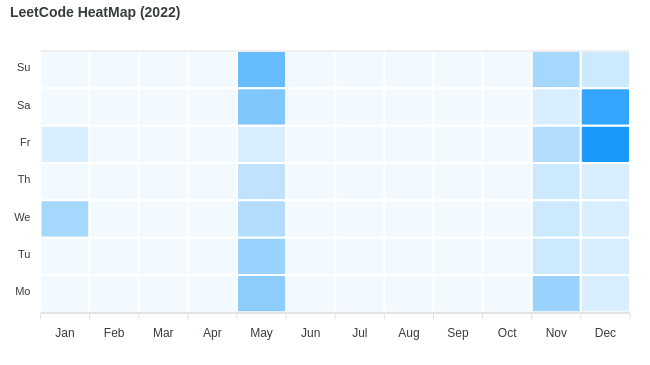
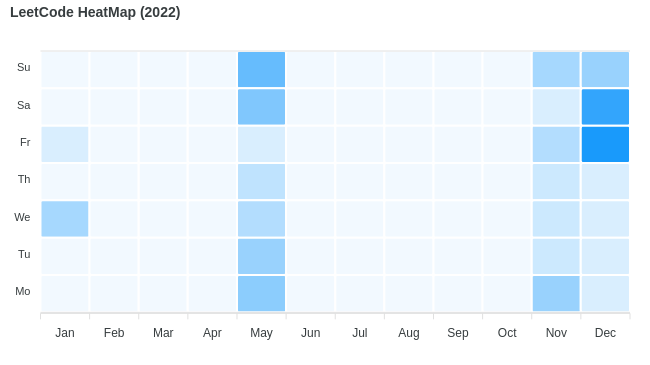
update heatmap.png

Changed region(s): [[0.8923, 0.1205, 0.9846, 0.2411]]

diff --git a/README.md b/README.md
@@ -3,7 +3,7 @@
 
 Collection of LeetCode questions to ace the coding interview! - Created using [LeetHub](https://github.com/QasimWani/LeetHub)
 
-> Questions solved 126
+> Questions solved 130
 
 ## Contribution 
 
